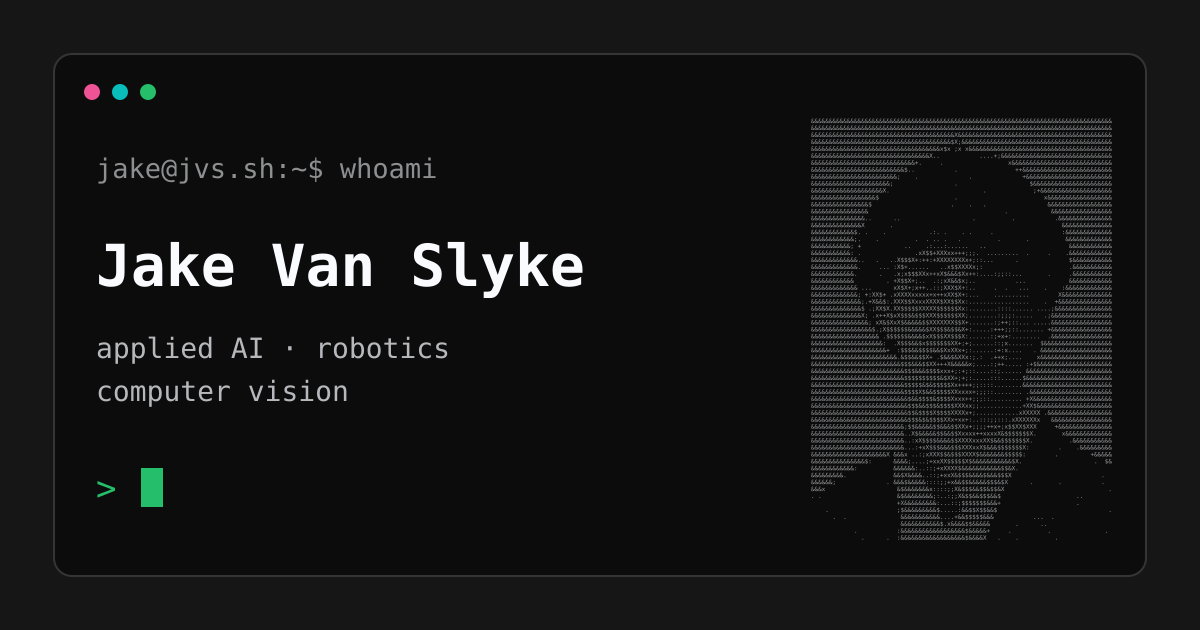
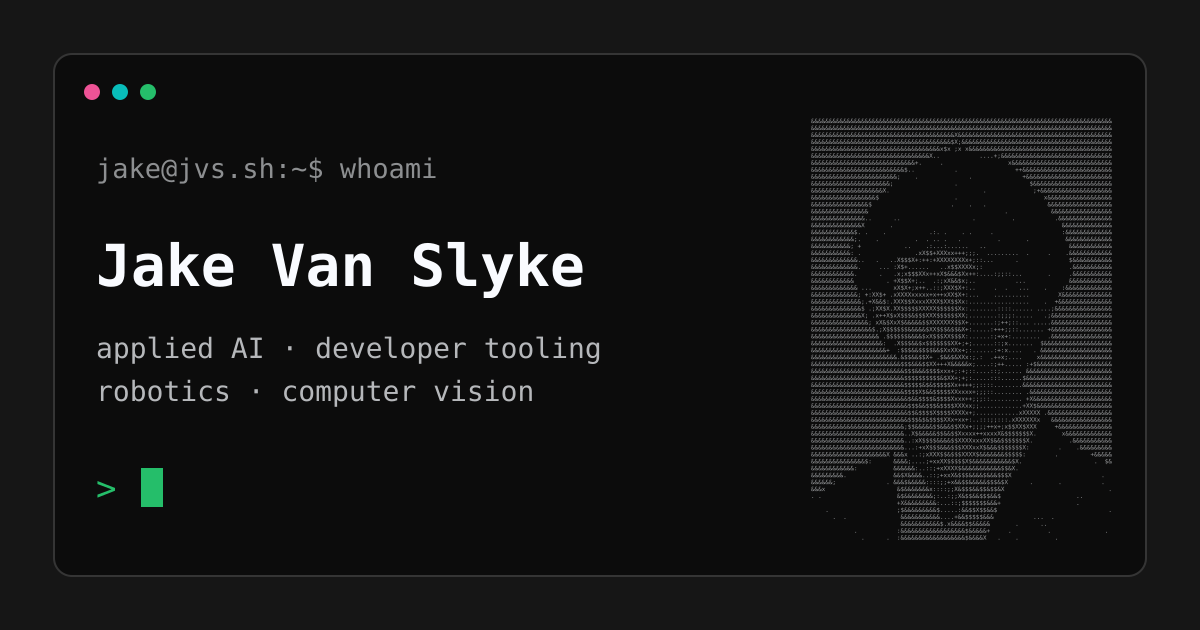
content: refresh OG card copy, surface tooling in skills
The social card still read "applied AI · robotics / computer vision" after
the site reframed around tooling. Now "applied AI · developer tooling /
robotics · computer vision", regenerated from the same ASCII source.

Moves "LLM & agent tooling" up the skills list so it is not last while the
paragraph above leads with it, and records the exact PNG re-render command
in CLAUDE.md — sharp keeps DejaVu Sans Mono where other rasterizers
silently substitute a fallback.

Changed region(s): [[0.0617, 0.6032, 0.4625, 0.6333], [0.2467, 0.5429, 0.5242, 0.573]]

diff --git a/CLAUDE.md b/CLAUDE.md
@@ -48,7 +48,14 @@ These have each broken a build or a deploy before:
   The real secrets are `TURNSTILE_SECRET_KEY` and `CONTACT_TO` — the latter is a secret
   rather than a var only to keep the address out of a public repo.
 - **Regenerating the ASCII portrait means regenerating the OG card too** — run
-  `node scripts/generate-og-image.mjs`, then re-render `public/og-image.png` from the SVG.
+  `node scripts/generate-og-image.mjs` for the SVG, then re-render the PNG from it.
+  `sharp` is already in `node_modules`, and its librsvg backend keeps DejaVu Sans Mono
+  instead of substituting a fallback:
+  ```
+  node -e "require('sharp')(require('fs').readFileSync('public/og-image.svg'))
+    .resize(1200,630,{fit:'fill'}).png().toFile('public/og-image.png')"
+  ```
+  Always eyeball the result — a font substitution is silent and only visible in the image.
 
 ## Commit conventions
 
